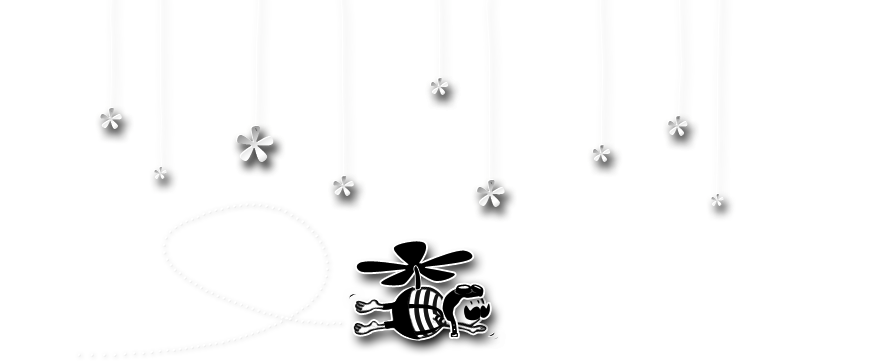
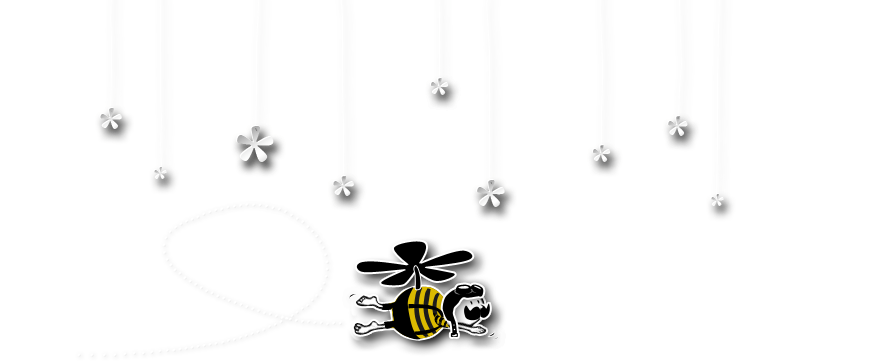
Blog corrections (not valid por IE)

diff --git a/zendone-theme/css/colors.css b/zendone-theme/css/colors.css
@@ -11,13 +11,13 @@
  Others
  --------------------------
  blue               #09C
- yellow             #F90
+ yellow             #bfbf00
  white              #FFF
 
 */
 
 html, body {
-	background: black url(../img/bg-linen-texture.jpg) 0 0 repeat;
+	background: black url(../img/bg-linen-home.jpg) 0 0 repeat;
 }
 	
 strong {
@@ -25,7 +25,7 @@ strong {
 }
 
 #wrapper {
-	background: url(../img/bg-linen-texture.jpg) 0 0 repeat-x;
+	_background: url(../img/bg-linen-texture.jpg) 0 0 repeat-x;
 	color: #999;
 }
 
@@ -37,12 +37,13 @@ strong {
 #header a:hover,
 #header a:active,
 #header a:focus {
-	color: #FFF;
+	color: #bfbf00;
+	border-bottom:dotted 1px #bfbf00;
 }
 
 .back:link,
 .back:visited {
-	color: #F90;
+	color: #bfbf00;
 }
 
 .back:hover,
@@ -52,7 +53,7 @@ strong {
 }
 
 .post {
-	background:rgba(0, 0, 0, 0.4);
+	background:rgba(0, 0, 0, 0.31);
 	border:solid 1px black;
 	-moz-border-radius: 4px; -webkit-border-radius:4px; border-radius: 4px;
 	-webkit-box-shadow: rgba(0,0,0,0.3) 1px 1px 8px; -moz-box-shadow: rgba(0,0,0,0.3) 1px 1px 8px;
@@ -76,7 +77,7 @@ strong {
 .post h2 a:hover,
 .post h2 a:active,
 .post h2 a:focus {
-	color: #F90;
+	color: #bfbf00;
 }
 
 .post blockquote {
@@ -85,24 +86,25 @@ strong {
 
 .date {
 	color: #828282;
+	text-transform: lowercase;
 }
 
 .entry a:link,
 .comment {
-	color: #F90;
-/*  background:rgba(0, 0, 0, 0.4);*/
+	color: #CCC;
+/*  background:rgba(0, 0, 0, 0.31);*/
 /*  border:solid 1px black;*/
 	-moz-border-radius: 4px; -webkit-border-radius:4px; border-radius: 4px;
 	-webkit-box-shadow: rgba(0,0,0,0.3) 1px 1px 8px; -moz-box-shadow: rgba(0,0,0,0.3) 1px 1px 8px;
 }
 
 .comment a:link {
-	color: #F90;
+	color: #bfbf00;
 }
 
 .entry a:visited,
 .comment a:visited {
-	color: #F90;
+	color: #bfbf00;
 }
 
 .entry a:hover,
@@ -120,13 +122,13 @@ strong {
 
 .post .number-of-comments a:link,
 .post .number-of-comments a:visited {
-	color: #CCC;
+	color: #bfbf00;
 }
 
 .post .number-of-comments a:hover,
 .post .number-of-comments a:active,
 .post .number-of-comments a:focus {
-	color: #F90;
+	color: #bfbf00;
 }
 
 #comments h3,
@@ -135,12 +137,13 @@ strong {
 }
 
 .comment {
+  background:rgba(0, 0, 0, 0.31);
 	border-top: 1px solid #3C3C3C;
 	border: solid 2px black;
 }
 
 .highlighted {
-	background:rgba(0, 0, 0, 0.4);
+	background:rgba(0, 0, 0, 0.31);
 	border-top: 1px solid #000000;
 	margin-bottom: 4px;
 	-moz-border-radius: 4px; -webkit-border-radius:4px; border-radius: 4px;
@@ -149,11 +152,16 @@ strong {
 
 .highlighted a:link,
 .highlighted a:visited {
-	color: #09C;
+		color: #bfbf00;	
+}
+
+.highlighted a:hover {
+		color: #bfbf00;
+		border-bottom:dotted 1px #bfbf00;	
 }
 
 .comment cite {
-	color: #CCC;
+	color: #FFF;
 }
 
 .comment .moderation {
@@ -168,9 +176,13 @@ strong {
 /*  text-indent:120px;*/
 }
 
+#commentform .comment-container {
+  padding-right:18px;
+}
+
+
 #commentform textarea {
-	2margin-left:-120px;
-	width:490px !important;
+	width:100% !important;
 	border: solid 2px #000000;
 	-moz-border-radius: 4px; -webkit-border-radius:4px; border-radius: 4px;
 	-webkit-box-shadow: rgba(0,0,0,0.8) 3px 3px 8px; -moz-box-shadow: rgba(0,0,0,0.8) 3px 3px 8px; box-shadow: rgba(0,0,0,0.8) 3px 3px 8px;
@@ -188,11 +200,11 @@ strong {
 }
 
 .pagination {
-	color: #F90;
+	color: #bfbf00;
 }
 .pagination a:link,
 .pagination a:visited {
-	color: #F90;
+	color: #bfbf00;
 }
 
 .pagination a:hover,
@@ -213,7 +225,7 @@ strong {
 #sidebar a:hover,
 #sidebar a:active,
 #sidebar a:focus {
-	color: #F90;
+	color: #bfbf00;
 }
 
 #sidebar #sb-2 a:link,
@@ -224,7 +236,7 @@ strong {
 #sidebar #sb-2 a:hover,
 #sidebar #sb-2 a:active,
 #sidebar #sb-2 a:focus {
-	color: #F90;
+	color: #bfbf00;
 }
 
 #footer {

diff --git a/zendone-theme/css/layout.css b/zendone-theme/css/layout.css
@@ -104,9 +104,9 @@
 }
 
 .comment .date {
-	bottom: 1em;
+	top: 8px;
 	position: absolute;
-	right: 1em;
+	right: 8px;
 }
 
 #commentform {
@@ -148,17 +148,25 @@
   padding: 1em 0;
 }*/
 
-#main-navigation-menu         {position:absolute; right:0px; top:0px; font-size: 12px}
-#main-navigation-menu ul      {position:relative;}
-#main-navigation-menu ul li   {float:left; color:white; padding-left:8px; margin-right:20px; padding-top:4px; display:inline-block;}
-#main-navigation-menu li      {height:24px; border-left:solid 1px white;}
 
-#main-navigation-menu a       {text-decoration:none; color:WHITE;}
-#main-navigation-menu a:hover {text-decoration:NONE; color:YELLOW;}
 
-#main-navigation-menu span.selected {color: YELLOW; font-weight: bold;}
+#main-navigation-menu                     {position:absolute; right:0px; top:0px; width:100%; text-align:right;}
+#main-navigation-menu ul                  {position:relative; text-align:right; top:-4px;}
+#main-navigation-menu ul li               {_float:left; display:inline-block;}
+#main-navigation-menu li                  {height:24px;}
 
-/* Added by Pablo to disable visually the main window navigation options that has no content*/
-#main-navigation-menu ul li span.tour           { color: gray }
-#main-navigation-menu ul li span.pricing           { color: gray }
-#main-navigation-menu ul li span.help           { color: gray }
+#main-navigation-menu ul li a             {display:inline-block; font-size:12px; padding-left:8px; margin-right:20px; padding-top:4px; text-decoration:none; color:WHITE; border-left:solid 1px #737476; height:24px;}
+#main-navigation-menu ul li a:hover       {text-decoration:NONE; color:YELLOW;}
+
+#main-navigation-menu ul li span          {display:inline-block; font-size:12px; padding-left:8px; margin-right:20px; padding-top:4px; border-left:solid 1px #737476; color: gray; height:24px;}
+#main-navigation-menu ul li span.selected {color: white; font-weight: bold; background: url('../img/icon-arrow.png') no-repeat center bottom;}
+
+#main-content.home      {}
+#main-content.blog      {}
+#main-content.help      {}
+#main-content.login     {}
+#main-content.tour      {}
+#main-content.pricing   {}
+
+#main-navigation-menu a.home          {z-index:9999; position:absolute !important; display:block; border-left:none; top:5px; left:1px; width:auto !important; height:33px; text-indent:24px; background: url('../img/btn-home.png') no-repeat 0 -1px;}
+#main-navigation-menu a:hover.home    {background-position: 0 -34px;}

diff --git a/zendone-theme/css/type.css b/zendone-theme/css/type.css
@@ -79,12 +79,17 @@ a.back {
 }
 
 .post .number-of-comments a {
-	text-decoration: underline;
+	text-decoration: none;
+	text-transform: lowercase;
 	font-size: 13px;
+	border-bottom: dotted 1px #564700;
+}
+.post .number-of-comments a:hover {
+	border-bottom: dotted 1px #bfbf00;
 }
 
 #comments {
-  font-size: 13px;
+  font-size: 14px;
 }
 
 .date {
@@ -130,6 +135,42 @@ a.back {
 
 .post-comments a{
   color: #999;
+}
+
+.comments-count {
+  background: url(../img/ico-comments.png) no-repeat center 2px;
+  display:inline-block;
+  width:54px;
+  height:40px;
+  line-height:36px;
+  font-size:16px;
+  font-weight:bold;
+  color:black !important;
+  text-indent:18px;
+  overflow:hidden;
+  vertical-align:middle;
+}
+
+.post-comments span {
+  font-size:11px;
+  font-weight:normal;
+  display:inline-block;
+  margin-right:20px;
+}
+
+.comments-participate {
+  background: url(../img/btn-add.png) no-repeat center 0;
+  display:inline-block;
+  width:68px;
+  height:33px;
+  font-size:14px;
+  color:black;
+  position:relative;
+  top:-5px;
+}
+
+.comments-participate:hover {
+  background: url(../img/btn-add.png) no-repeat center -33px;
 }
 
 /*#footer a {

diff --git a/zendone-theme/css/forms.css b/zendone-theme/css/forms.css
@@ -18,7 +18,8 @@ label {
 }
 
 p.input-submit {
-/*  text-align: right;*/
+text-align: right;
+padding: 0 12px 0 0;
 }
 
 #commentform input {

diff --git a/zendone-theme/comments.php b/zendone-theme/comments.php
@@ -17,10 +17,11 @@
 	<div id="comments">
 		
 		<p class="post-comments">
-      <a class="comments-participate" href="#respond-form" title=""><span>+</span></a>
-    	<a class="comments-count" href="#comments" title="">
+      <a class="comments-count" href="#comments" title="">
     	  <?php comments_number(__('There are % comments in this article:','vostok') );?>
     	</a>
+    	<span>COMMENTS</span>
+    	<a class="comments-participate" href="#comment" title="Add a new comment"><span></span></a>
     </p>
 		
 		<ol>
@@ -73,7 +74,7 @@
 				<label for="url"><?php _e('Website (if you have one)','vostok'); ?></label>
 			</p>
 		<?php endif; ?>
-			<p>
+			<p class="comment-container">
 				<textarea name="comment" id="comment" cols="100%" rows="10"></textarea>
 			</p>
 			<p class="input-submit">
